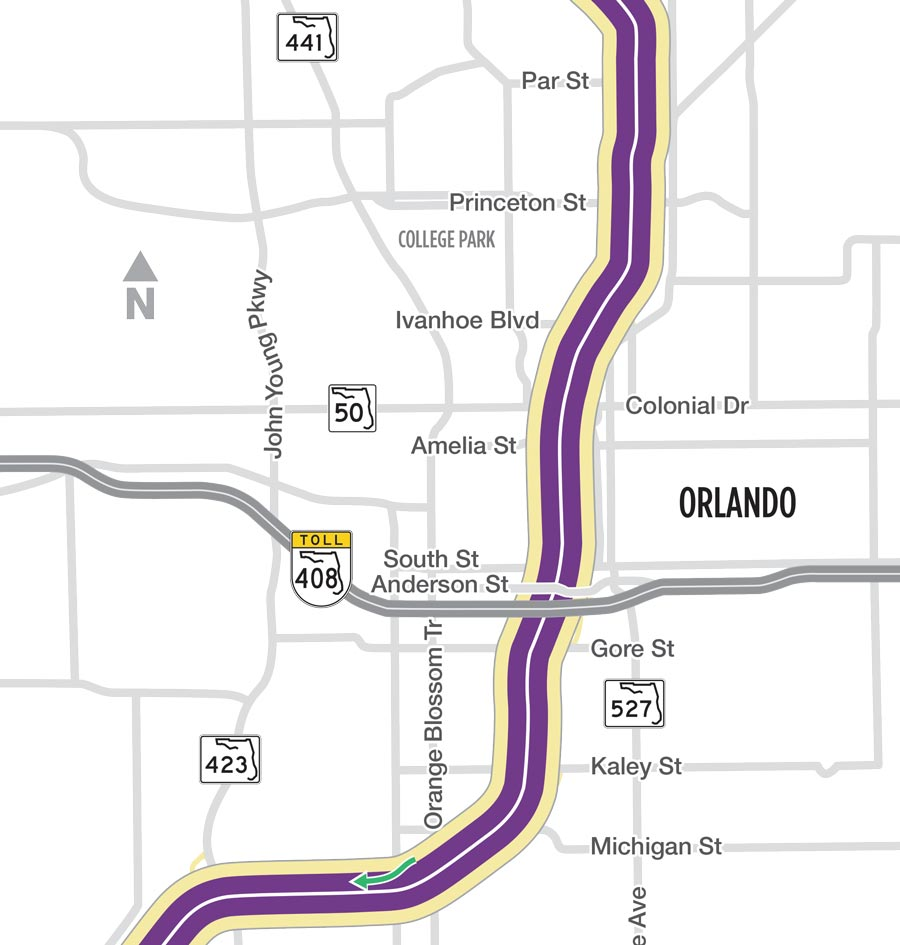
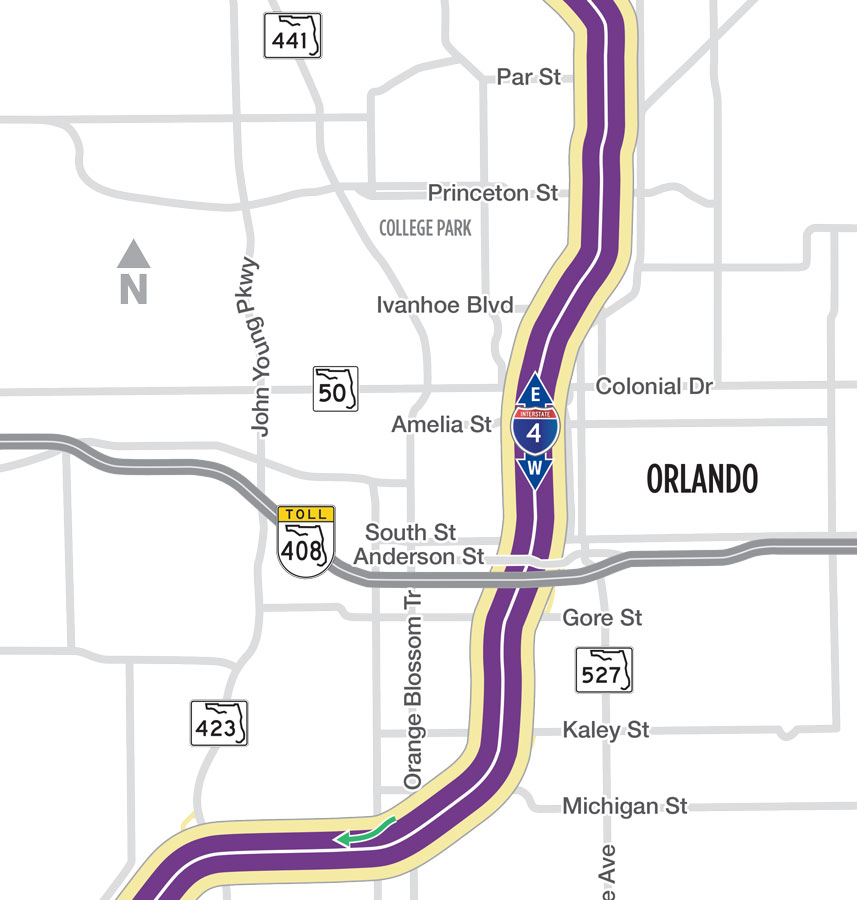
added new maps

diff --git a/src/data.js b/src/data.js
@@ -481,7 +481,7 @@ export const eastWestBounds = [
       entryWB: {
         images: [
           {
-            imgIn: ['4ba220a7-c1c5-4f9b-bef2-73c093cfd1ec.png'],
+            imgIn: ['Express-Lanes-COLONIAL-W-ON.jpg'],
             imgOut: ['4ba220a7-c1c5-4f9b-bef2-73c093cfd1ec.png'],
           },
         ],
@@ -530,7 +530,7 @@ export const eastWestBounds = [
       entryWB: {
         images: [
           {
-            imgIn: ['4ba220a7-c1c5-4f9b-bef2-73c093cfd1ec.png'],
+            imgIn: ['Express-Lanes-Amelia-W-ON.jpg'],
             imgOut: ['4ba220a7-c1c5-4f9b-bef2-73c093cfd1ec.png'],
           },
         ],
@@ -576,8 +576,8 @@ export const eastWestBounds = [
       entryWB: {
         images: [
           {
-            imgIn: ['4ba220a7-c1c5-4f9b-bef2-73c093cfd1ec.png'],
-            imgOut: ['4ba220a7-c1c5-4f9b-bef2-73c093cfd1ec.png'],
+            imgIn: ['Express-Lanes-SouthSt-W-ON-1.jpg'],
+            imgOut: ['Express-Lanes-SouthSt-W-Off-1.jpg'],
           },
         ],
         entry: [
@@ -663,8 +663,8 @@ export const eastWestBounds = [
       entryWB: {
         images: [
           {
-            imgIn: ['4ba220a7-c1c5-4f9b-bef2-73c093cfd1ec.png'],
-            imgOut: ['4ba220a7-c1c5-4f9b-bef2-73c093cfd1ec.png'],
+            imgIn: ['Express-Lanes-SR408-W-ON-1.jpg'],
+            imgOut: ['Express-Lanes-SR408-W-OFF-1.jpg'],
           },
         ],
         entry: [
